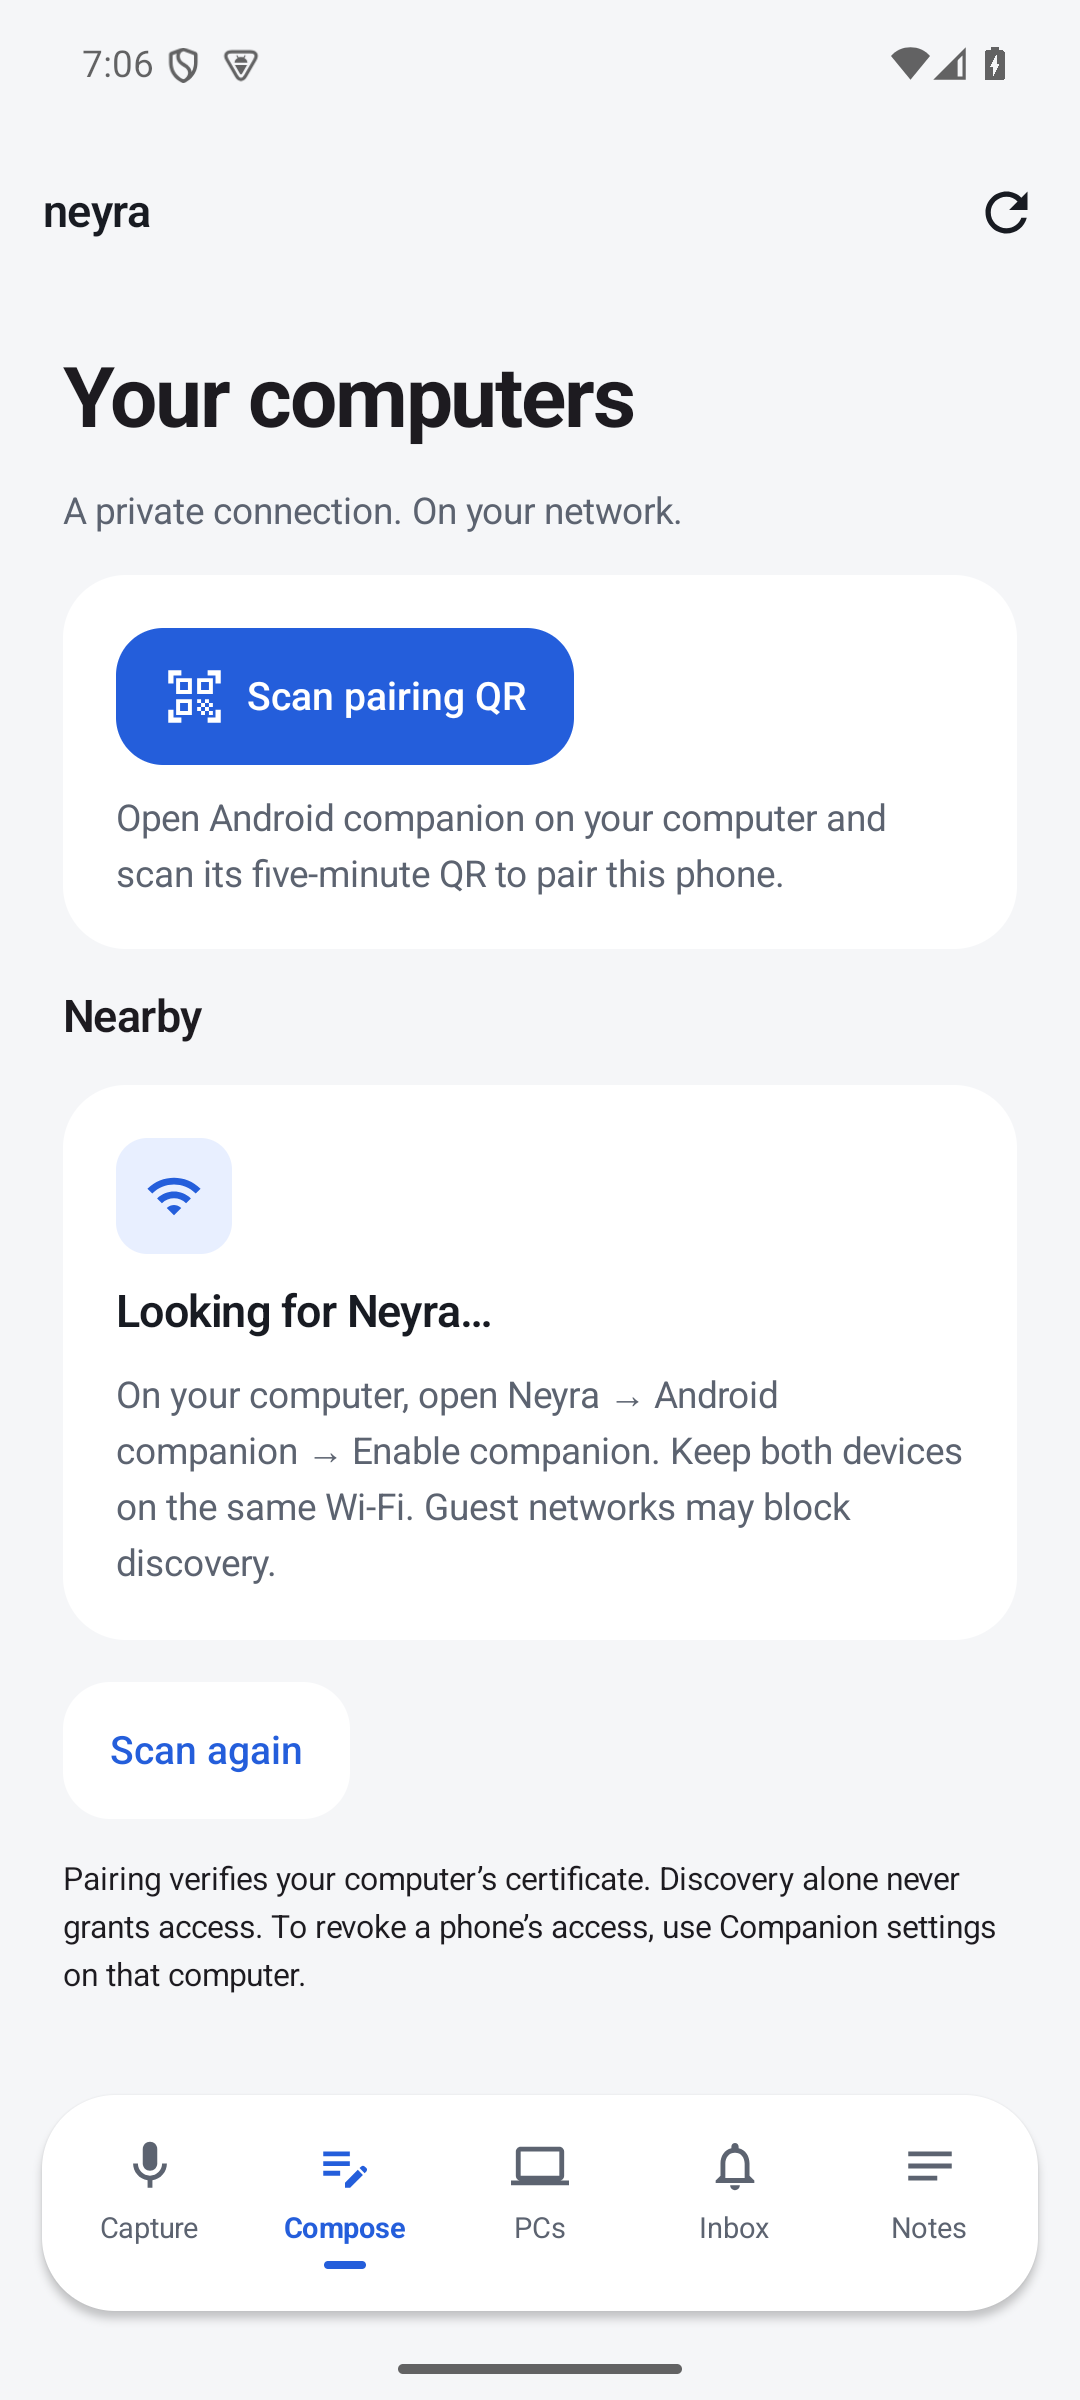
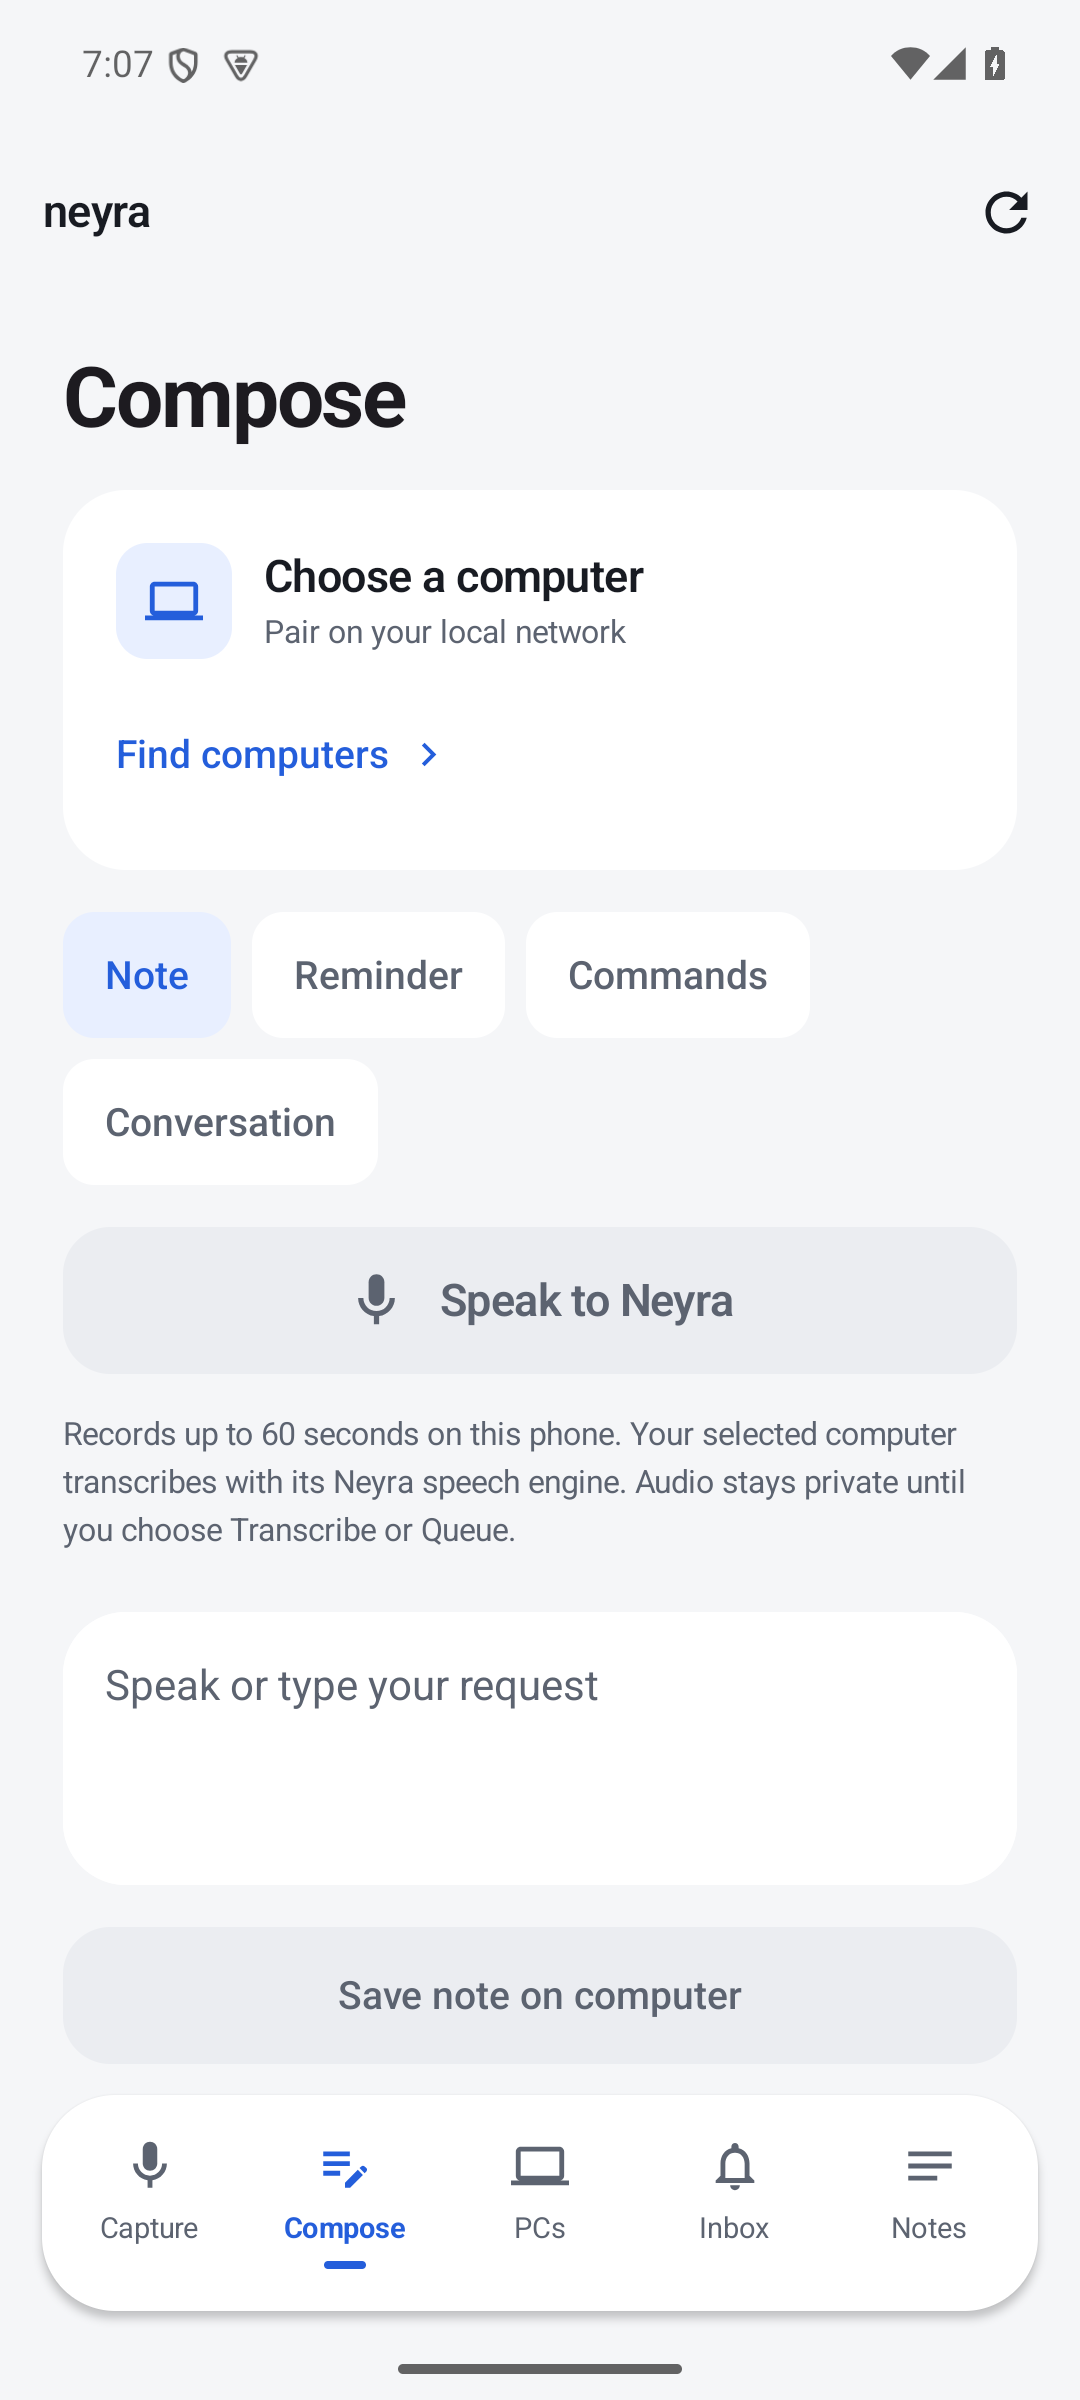
Refresh Compose capture and record emulator rendering caveat

diff --git a/docs/verification.md b/docs/verification.md
@@ -82,3 +82,8 @@ These are unpaired empty states, not proof of physical-device operation. Speak i
 intentionally disabled until a computer is selected. Status icons follow the system
 theme and remain legible on both canvases. Hardware performance, TalkBack and battery
 behavior remain unmeasured; no independent visual-review verdict is claimed.
+
+Capture caveat: the SwiftShader emulator intermittently retained the prior screen's
+pixels after navigation while its accessibility tree exposed the new screen. The
+Compose image was recaptured after a configuration redraw. Navigation semantics
+pass automated tests; physical-device rendering still needs confirmation.
